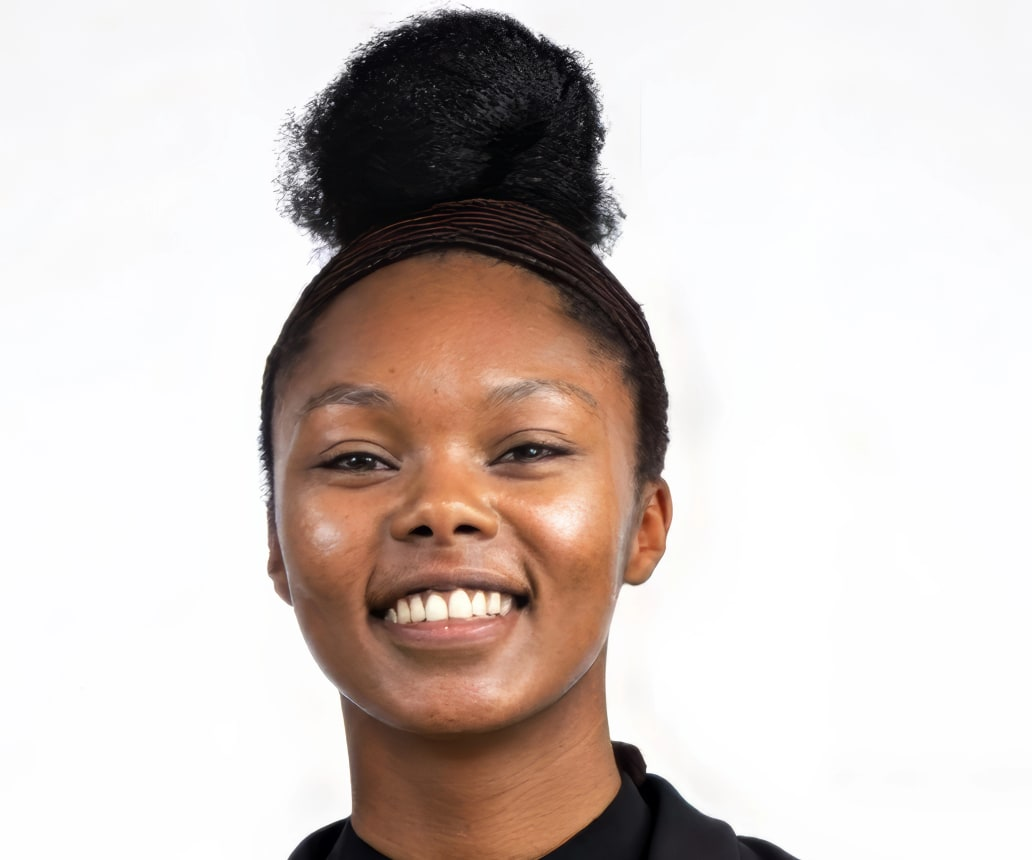
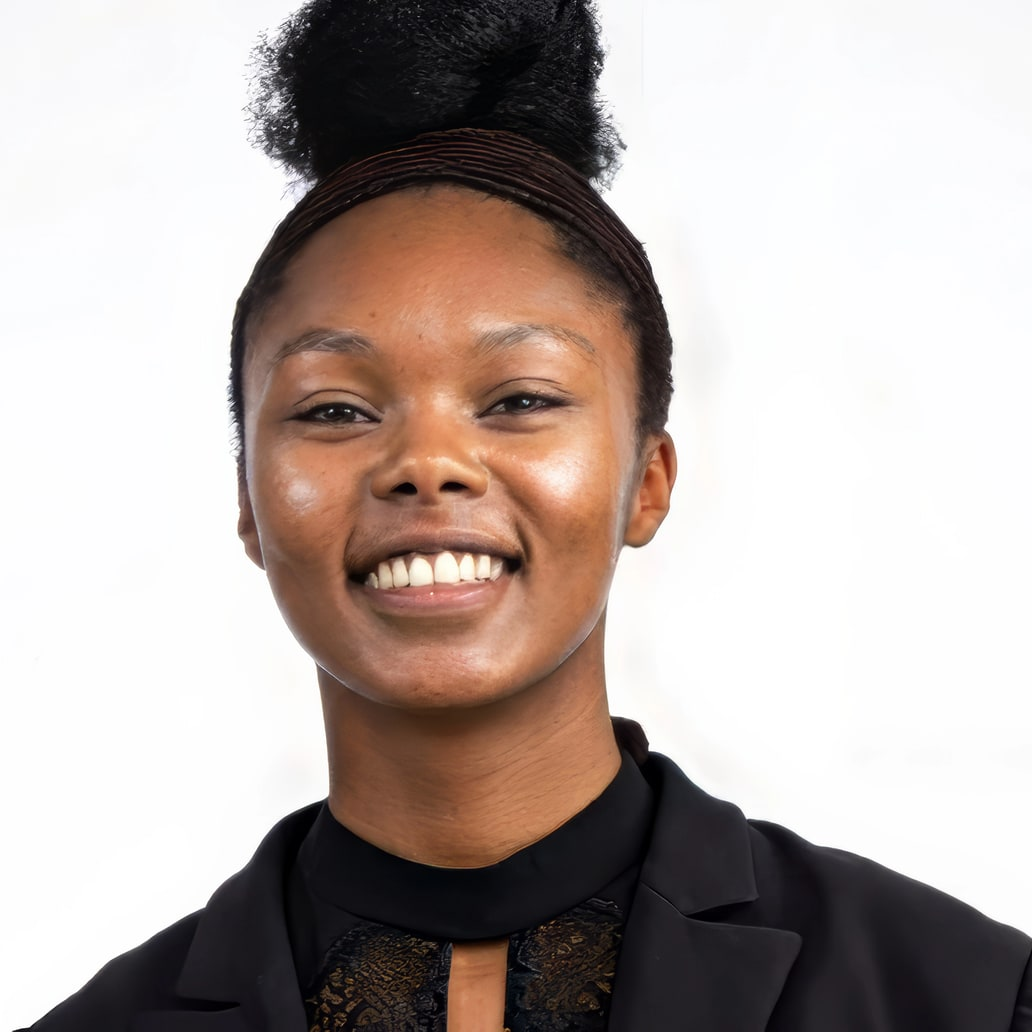
Match the Leadership page body to its design
Every portrait becomes the same tile the design draws in all three
sections: square at 10px corners over a pale blue gradient, with the
person's initials showing through when no photograph exists. They were
three different crops — 258x215 for the featured rows, 352x215 for HQ
staff, square for the coordinators — so a shared Portrait carries it now.

The HQ staff lose their white cards; the design sets the portrait
straight on the page with its text beneath, the same as the rows above.

The page runs white throughout below the hero. It had been alternating
white and mist every section, which the design does not do — the rules
and the rows carry the separation instead.

Type comes off the design: 23px names on the featured rows, 19px on the
HQ grid, 13.5-14.5px for the roles and bios, and the email in ink rather
than an underlined blue link.

Rani Reid's portrait is recropped square from the 3200px original. It
had been cropped to the old landscape tile, which left her small once
the tile became square.

Claude-Session: https://claude.ai/code/session_014CkZeCffeAh7DyGPK2DJy4

diff --git a/src/app/(frontend)/[locale]/about/leadership/page.tsx b/src/app/(frontend)/[locale]/about/leadership/page.tsx
@@ -81,6 +81,43 @@ function initials(name: string) {
     .toUpperCase();
 }
 
+/**
+ * Every portrait on this page is the same tile: square, 10px corners, over a
+ * pale blue gradient that shows through as the person's initials when no
+ * photograph has been supplied. The design draws it that way in all three
+ * sections rather than giving each its own crop.
+ */
+function Portrait({
+  image,
+  name,
+  sizes,
+  className = "",
+  initialsClassName = "text-[34px]",
+}: {
+  image?: string | null;
+  name: string;
+  sizes: string;
+  className?: string;
+  initialsClassName?: string;
+}) {
+  return (
+    <div
+      className={`relative aspect-square overflow-hidden rounded-[10px] ${className}`}
+      style={{ backgroundImage: "linear-gradient(127deg, #e5edf6 0%, #cddbee 71%)" }}
+    >
+      {image ? (
+        <Image src={image} alt={name} fill className="object-cover" sizes={sizes} />
+      ) : (
+        <span
+          className={`flex size-full items-center justify-center font-display font-extrabold text-[#93a7be] ${initialsClassName}`}
+        >
+          {initials(name)}
+        </span>
+      )}
+    </div>
+  );
+}
+
 const leaderKinds = [
   {
     number: "01",
@@ -139,33 +176,26 @@ export default function LeadershipPage() {
             The people behind the sending.
           </h2>
 
-          <div className="mt-10 space-y-12">
+          <div className="mt-10">
             {featuredLeaders.map((leader) => (
               <div
                 key={leader.name}
-                className="flex flex-col gap-8 border-t border-black/10 pt-10 first:border-t-0 first:pt-0 sm:flex-row"
+                className="flex flex-col gap-10 border-t border-[#11182a]/[0.12] py-9 first:border-t-0 first:pt-0 sm:flex-row"
               >
-                {/* Not everyone has a portrait in the design yet, so those
-                    without one fall back to an initials tile. */}
-                <div className="relative aspect-[258/215] w-full shrink-0 overflow-hidden rounded-xl bg-mist sm:w-[258px]">
-                  {leader.image ? (
-                    <Image
-                      src={leader.image}
-                      alt={leader.name}
-                      fill
-                      className="object-cover"
-                      sizes="258px"
-                    />
-                  ) : (
-                    <span className="flex size-full items-center justify-center font-display text-3xl font-bold text-brand-blue/40">
-                      {initials(leader.name)}
-                    </span>
-                  )}
-                </div>
-                <div>
-                  <p className="font-display text-xl font-bold text-ink">{leader.name}</p>
-                  <p className="mt-2 text-sm font-semibold text-brand-blue">{leader.title}</p>
-                  <p className="mt-4 max-w-[760px] text-sm leading-relaxed text-ink-muted">
+                <Portrait
+                  image={leader.image}
+                  name={leader.name}
+                  sizes="258px"
+                  className="w-full shrink-0 sm:w-[258px]"
+                />
+                <div className="flex flex-col gap-[7px] pt-1">
+                  <p className="font-display text-[23px] font-extrabold leading-[24.38px] tracking-[-0.035em] text-ink">
+                    {leader.name}
+                  </p>
+                  <p className="text-[14.5px] font-semibold leading-6 text-brand-blue">
+                    {leader.title}
+                  </p>
+                  <p className="max-w-[760px] text-[14.5px] leading-[23.9px] text-ink-muted">
                     {leader.bio}
                   </p>
                 </div>
@@ -175,32 +205,35 @@ export default function LeadershipPage() {
         </Container>
       </section>
 
-      <section className="bg-mist py-20">
+      <section className="bg-white py-20">
         <Container className="max-w-[1104px]">
           <Eyebrow>HQ Staff &amp; Coordinators</Eyebrow>
           <h2 className="font-display text-3xl font-semibold tracking-[-0.02em] text-ink sm:text-4xl">
             Holding the day to day.
           </h2>
 
+          {/* No card around these in the design — the portrait sits straight
+              on the page with its text beneath, the same tile the featured
+              rows above use. */}
           <div className="mt-10 grid gap-6 sm:grid-cols-2 lg:grid-cols-4">
             {hqStaff.map((person) => (
-              <div key={person.name} className="overflow-hidden rounded-2xl bg-white">
-                <div className="relative aspect-[352/215] w-full">
-                  <Image
-                    src={person.image}
-                    alt={person.name}
-                    fill
-                    className="object-cover"
-                    sizes="(min-width: 1024px) 33vw, (min-width: 640px) 50vw, 100vw"
-                  />
-                </div>
-                <div className="p-6">
-                  <p className="font-display text-lg font-bold text-ink">{person.name}</p>
-                  <p className="mt-1 text-sm font-semibold text-brand-blue">{person.title}</p>
-                  <p className="mt-3 text-sm leading-relaxed text-ink-muted">{person.bio}</p>
+              <div key={person.name} className="flex flex-col">
+                <Portrait
+                  image={person.image}
+                  name={person.name}
+                  sizes="(min-width: 1024px) 258px, (min-width: 640px) 50vw, 100vw"
+                />
+                <div className="flex flex-col gap-[7px] pt-[18px]">
+                  <p className="font-display text-[19px] font-extrabold leading-[22px] tracking-[-0.032em] text-ink">
+                    {person.name}
+                  </p>
+                  <p className="text-[13.5px] font-semibold leading-[19px] text-brand-blue">
+                    {person.title}
+                  </p>
+                  <p className="text-[13.5px] leading-[21.5px] text-ink-muted">{person.bio}</p>
                   <TenantLink
                     href={`mailto:${person.email}`}
-                    className="mt-3 inline-block text-sm text-brand-blue underline underline-offset-2"
+                    className="text-[12.5px] font-semibold leading-[19px] text-ink hover:text-brand-blue"
                   >
                     {person.email}
                   </TenantLink>
@@ -221,15 +254,12 @@ export default function LeadershipPage() {
           <div className="mt-10 grid grid-cols-2 gap-x-6 gap-y-10 sm:grid-cols-4 lg:grid-cols-5">
             {coordinators.map((person) => (
               <div key={person.name} className="text-center">
-                <div className="relative mx-auto aspect-square w-full overflow-hidden rounded-2xl bg-mist">
-                  <Image
-                    src={person.image}
-                    alt={person.name}
-                    fill
-                    className="object-cover"
-                    sizes="(min-width: 1024px) 202px, 40vw"
-                  />
-                </div>
+                <Portrait
+                  image={person.image}
+                  name={person.name}
+                  sizes="(min-width: 1024px) 202px, 40vw"
+                  initialsClassName="text-2xl"
+                />
                 <p className="mt-4 text-sm font-semibold text-ink">{person.name}</p>
                 <p className="mt-1 text-xs text-ink-muted">{person.region}</p>
               </div>
@@ -238,7 +268,9 @@ export default function LeadershipPage() {
         </Container>
       </section>
 
-      <section className="bg-mist py-20">
+      {/* The design runs the whole page white below the hero — no alternating
+          mist bands — so the rules and the rows carry the separation. */}
+      <section className="bg-white py-20">
         <Container className="max-w-[1104px]">
           <Eyebrow>Across the Network</Eyebrow>
           <h2 className="font-display text-3xl font-semibold tracking-[-0.02em] text-ink sm:text-4xl">
